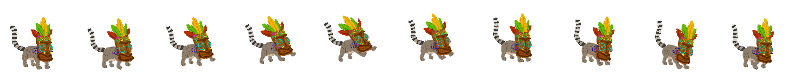
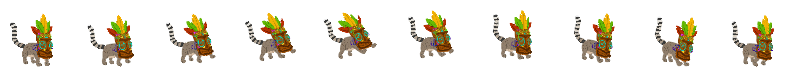
Palm and lemur animations change

diff --git a/MangoMambo/Development/players/character.js b/MangoMambo/Development/players/character.js
@@ -149,7 +149,7 @@ class Character extends Phaser.GameObjects.Sprite{
                 this.scene.anims.create({
                     key: 'palm_walk',
                     frames: this.scene.anims.generateFrameNumbers('palm_walk', { start: 0, end: 7 }),
-                    frameRate: 9,
+                    frameRate: 20,
                     repeat: -1
                 });
                 break;
@@ -195,7 +195,7 @@ class Character extends Phaser.GameObjects.Sprite{
                 this.scene.anims.create({
                     key: 'lemur_walk',
                     frames: this.scene.anims.generateFrameNumbers('lemur_walk', { start: 0, end: 9 }),
-                    frameRate: 15,
+                    frameRate: 20,
                     repeat: -1
                 });
                 break;
